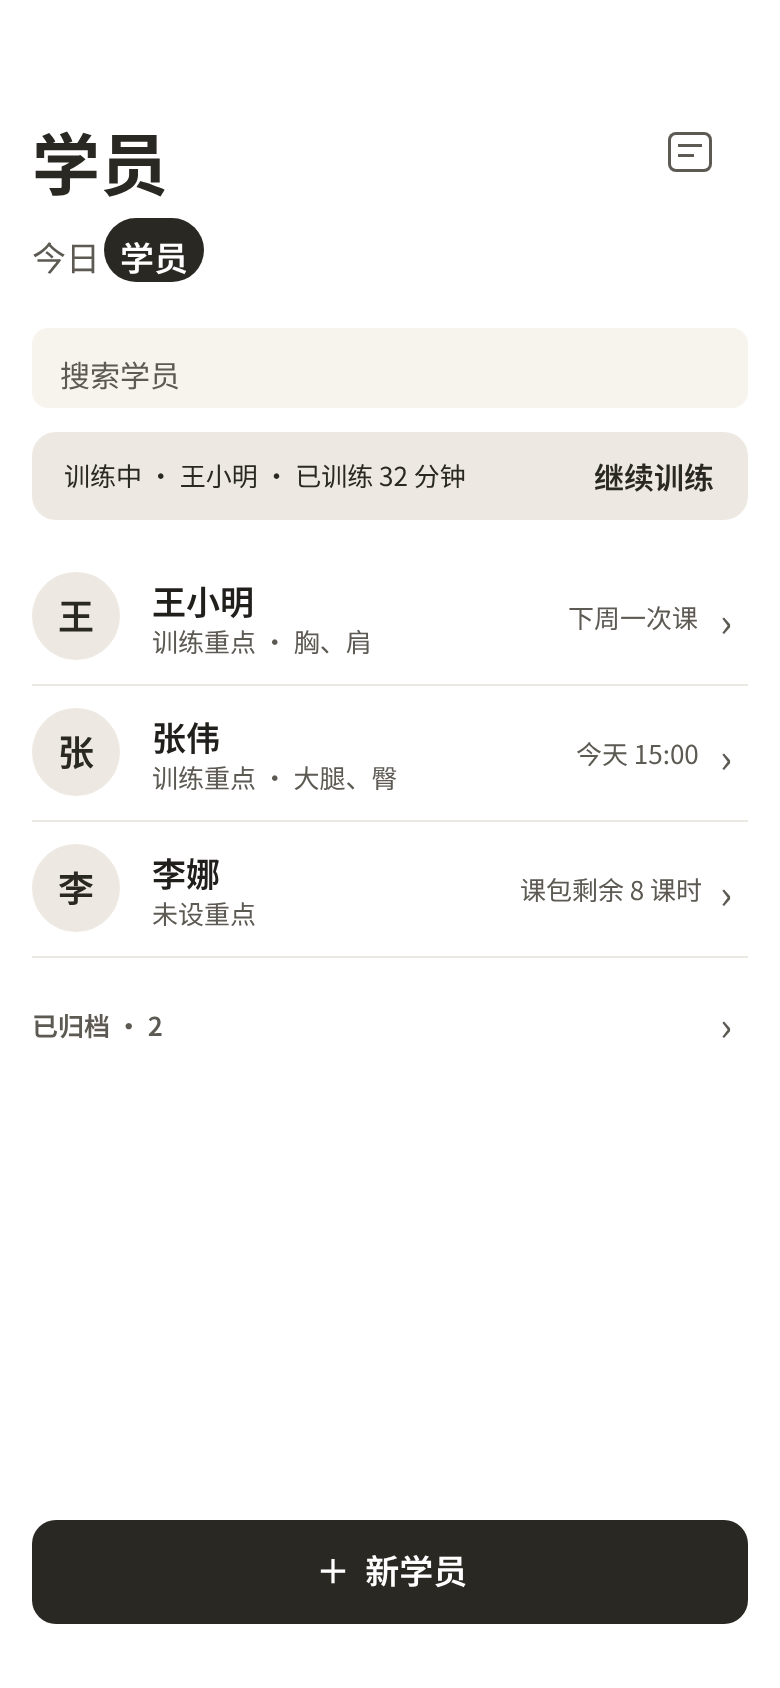
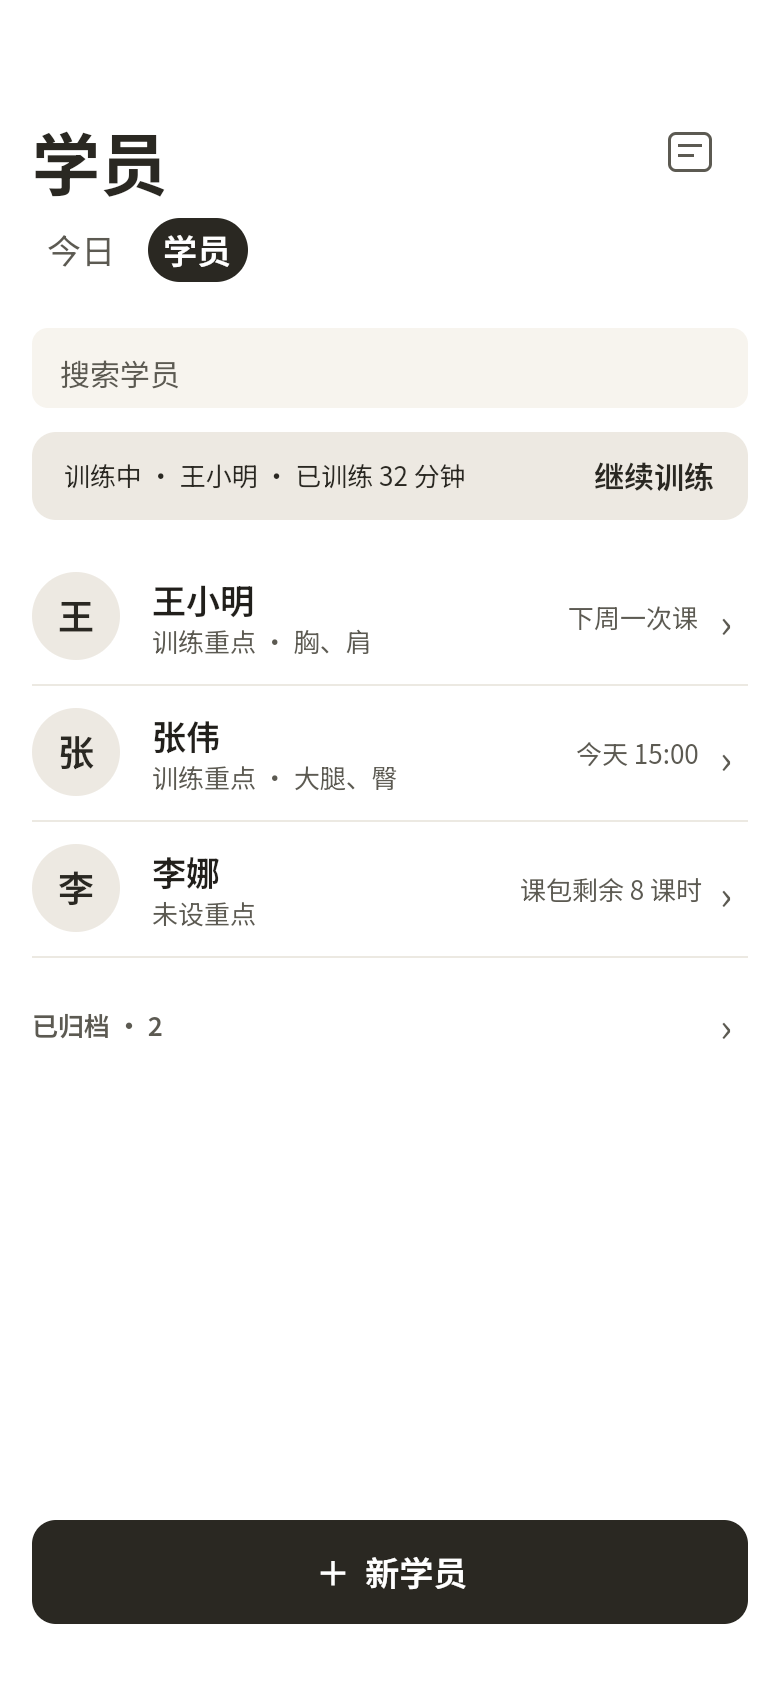
design(segmented): centre today/students options in their 50x32 boxes at the page margin (S1-D70)
Penpot boards drew the selected pill at x=8 with the label 3pt low and the
second label 2pt from the pill; board 16 had the options reversed. iOS
FCSegmentedSwitch already centres each label in a min 50x32 box. Fix the 9
boards, re-export their PNGs and the S1 Today layers, and state box, centring
and margin in DS-SEGMENTED. DS-PAGE-PRIMARY order now matches boards and iOS:
title, date, segmented, content.

diff --git a/design/design-system/README.md b/design/design-system/README.md
@@ -361,7 +361,7 @@ Phase 6.5 人工审核（T063）发现 8 个核心界面需要结构调整，并
 | 主按钮（页面底部） | 358×52，`radius.md`，底色 `action.primary`，按下 `action.pressed`；文字 `headline` 白色 |
 | 次按钮（样张） | 白底，1.5pt `action.primary` 描边，`radius.md`；文字 `headline` `action.primary` |
 | 链接式按钮 | 无底色，文字 `callout` 600 `action.primary`（例：「＋ 添加动作」「＋ 自定义指标」「重试」） |
-| 顶部分段切换（今日 / 学员） | 选中项 50×32 胶囊，`action.primary` 底 + `headline` 白字；未选中项为纯文字 `body` `text.secondary`。同一外观也用于页内 2–4 段（C26）的互斥短选项（37「扣减 / 返还」；趋势指标、身体数据录入单位），选项更多或文字较长时改用筛选胶囊（2026-10-05，§10 C11） |
+| 顶部分段切换（今日 / 学员） | 每个选项框最小 50×32、间距 `space.2`，文字在框内水平垂直居中；选中项的框即胶囊，`action.primary` 底 + `headline` 白字；未选中项为纯文字 `body` `text.secondary`。一级页顶部时第一个选项框左缘对齐页边距 `space.4`（S1-D70）。同一外观也用于页内 2–4 段（C26）的互斥短选项（37「扣减 / 返还」；趋势指标、身体数据录入单位），选项更多或文字较长时改用筛选胶囊（2026-10-05，§10 C11） |
 | 筛选胶囊（07） | 高 30 胶囊；未选中 `surface.selected` 底 + `chipLabel` `text.primary`；选中 `action.primary` 底 + 白字 |
 | 开关 | 44×26 胶囊，滑块 18×18 白色圆，**左关右开**（iOS 惯例，与画稿 02/12 一致）。开启：轨道 `action.primary`。关闭：轨道 `surface.divider` 底 + 1.5pt `border.control` 内描边（O7）。实现为系统原生 `Toggle` + 自定义外观样式，保留系统开关的无障碍语义；可点击区域不小于 44×44 |
 | 深色 hero 卡（01） | 358×100，`radius.lg`，`action.primary` 底；内含徽标（高 24 胶囊，最小宽 56、随文字增长，`surface.canvas` 底，`sectionLabel` `action.primary` 字）、`headline` 白字标题、`text.onActionSecondary` 副文字、`callout` 600 白字操作。每屏最多一个。**多行变体（W08-a，2026-10-22）**：多名学员同时训练时仍是一张卡，徽标「进行中 · N」，每人一行（学员名 · 部位 / 已训练 N 分钟 / 「继续 ›」），行最小高 44，行间 `surface.dividerOnAction` 分割线，按开始时间升序；每行单独可点。1 人时与 01 相同 |
